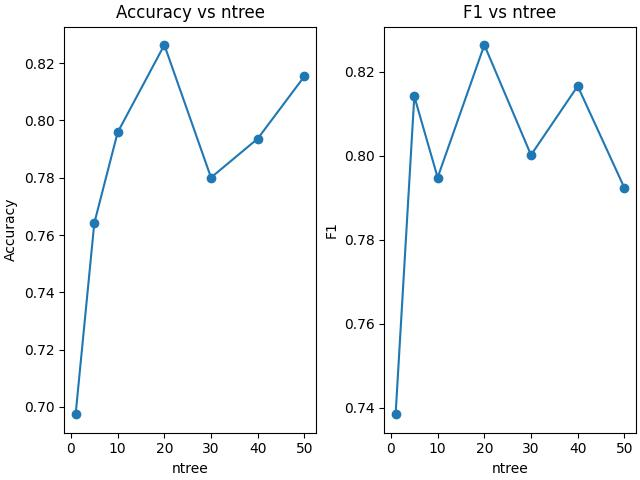
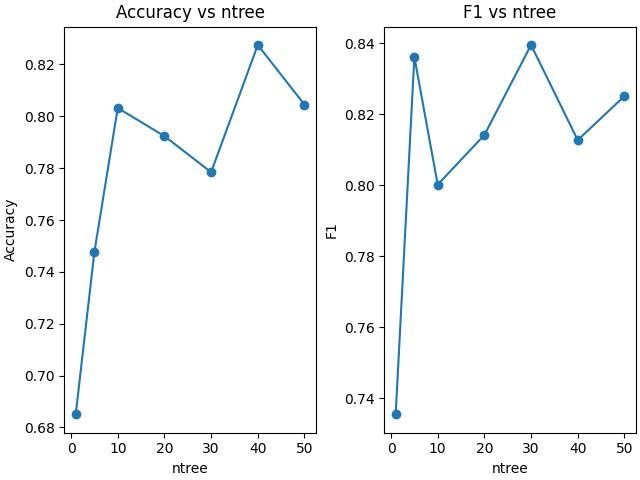
add report loan random forest, neural network

diff --git a/Final_Project.tex b/Final_Project.tex
@@ -278,6 +278,9 @@ Algorithms we are using:
 \end{itemize}
 
 \subsection{Digits Dataset}
+
+All attributes are numerical so no need for one hot encode.
+
 \subsection*{Random Forest}
 \begin{itemize}
 	\item \text{Split criterion: Information Gain}
@@ -346,7 +349,8 @@ the more instances are introduced to the network, the cost J decreases as the we
 small number (almost constant).
 
 \subsection{Titanic Dataset}
-We remove the name column from the dataset as we think that information does not really help to classify the result.
+We remove the name column from the dataset as we think that information does not really help to classify the result. We also one hot encode the categorical
+attributes.
 
 \subsection*{Random Forest}
 \begin{itemize}
@@ -358,7 +362,7 @@ We remove the name column from the dataset as we think that information does not
 
 \begin{figure}[H]
 	\includegraphics[width=\textwidth]{figures/forest_titanic.csv_ig.jpg}
-	\caption{Random forest on Digits dataset}
+	\caption{Random forest on Titanic dataset}
 	\label{fig:forest-titanic}
 \end{figure}
 
@@ -409,6 +413,72 @@ may leads to overfitting since there are only 7 features. But with the optimal $
 As a result we get an overall relatively equal score for different hyper parameters set.
 
 \subsection{Loan Dataset}
+
+We remove the LOAN\_ID column from the dataset as we think that information does not really help to classify the result. We also one hot encode the categorical
+attributes.
+
+\subsection*{Random Forest}
+\begin{itemize}
+	\item \text{Split criterion: Information Gain}
+	\item $min\_size\_split = 12$
+	\item $min\_gain = 0.01$
+	\item $max\_depth = 12$
+\end{itemize}
+
+\begin{figure}[H]
+	\includegraphics[width=\textwidth]{figures/forest_loan.csv_ig.jpg}
+	\caption{Random forest on Loan dataset}
+	\label{fig:forest-loan}
+\end{figure}
+
+While F1 score increases as ntree increases until it reaches a constant, accuracy score seems more unclear about its trends. The accuracy for
+ntree = 20 really took a dip then increases back up so we are not really sure why. This dataset is a complicated one with more categorical attributes
+than numerical attributes. This could be the factor contributing to the lower score when compared to the Titanic dataset as well as the inconsistancy
+in accuracy score as a function of ntree.
+
+\subsection*{Neural Network}
+\begin{enumerate}[label=(\alph*)]
+	\item \begin{itemize}
+		      \item $\lambda = 0.01$
+		      \item $\alpha = 6$
+	      \end{itemize}
+
+	      \begin{table}[H]
+		      \centering
+		      \begin{tabular}{|l|l|l|}
+			      \hline
+			      Architecture     & Accuracy Score & F1 Score \\ \hline
+			      {[}18 4 2{]}     & 0.740908       & 0.780337 \\ \hline
+			      {[}18 20 2{]}    & 0.740908       & 0.780337 \\ \hline
+			      {[}18 20 20 2{]} & 0.731523       & 0.682143 \\ \hline
+		      \end{tabular}
+	      \end{table}
+	\item \begin{itemize}
+		      \item $\lambda = 0.1$
+		      \item $\alpha = 0.1$
+	      \end{itemize}
+
+	      \begin{table}[H]
+		      \centering
+		      \begin{tabular}{|l|l|l|}
+			      \hline
+			      Architecture     & Accuracy Score & F1 Score \\ \hline
+			      {[}18 20 2{]}    & 0.740908       & 0.780337 \\ \hline
+			      {[}18 20 20 2{]} & 0.740908       & 0.780337 \\ \hline
+		      \end{tabular}
+	      \end{table}
+\end{enumerate}
+
+\begin{figure}[H]
+	\includegraphics[width=\textwidth]{figures/nn_loan.csv_cost.png}
+	\caption{Cost J against the number of instances introduced with $\lambda=0.01, \alpha=6$ and architecture [18, 20, 2]}
+	\label{fig:nn-loan}
+\end{figure}
+
+For this dataset, the accuracy and F1 score for 1 and 2 hidden layers seems to converge given small enough starting $\alpha$ values. It still has the
+trend that more layers means less performance, but it no longer has the property that more neurons can offset this. Rather, the scores seems to be
+capped. Probably because of the many categorical attributes that is one hot encode that is causing the converging of accuracy score and F1 score
+since all of its are 1 and 0 values.
 
 \subsection{Parkinsons Dataset}
 

diff --git a/nn_runner.py b/nn_runner.py
@@ -6,9 +6,9 @@ import numpy as np
 from nn import NeuralNetwork
 from utils import eval, load_data, normalize, split_folds, split_train_test
 
-
 num_epoch = 1000
 batch_size = 32
+
 
 def eval_one_fold(args):
     X, y, folds, k, classifier, ld, alpha = args
@@ -72,22 +72,6 @@ if __name__ == "__main__":
         for i in range(10):
             accuracy_t.append(results[0])
             f1_t.append(results[1])
-
-    # for k in range(10):
-    #     X_train, X_test, y_train, y_test = split_train_test(X, y, folds, k)
-    #     print(f"Fitting k = {k}")
-    #     classifier.fit(
-    #         X_train,
-    #         y_train,
-    #         alpha=alpha,
-    #         ld=ld,
-    #         batch_size=batch_size,
-    #         num_epoch=num_epoch,
-    #     )
-    #     y_pred = classifier.predict(X_test)
-    #     metrics = eval(y_test, y_pred)
-    #     accuracy_t.append(metrics["accuracy"])
-    #     f1_t.append(metrics["f1"])
 
     print(f"Neural Network architecture: {classifier.num_neurons}")
     print(f"Accuracy: {np.mean(accuracy_t):.6f}")

diff --git a/random_forest_runner.py b/random_forest_runner.py
@@ -65,6 +65,7 @@ if __name__ == "__main__":
     ntrees = [1, 5, 10, 20, 30, 40, 50]
     accuracy, f1 = [], []
     for ntree in ntrees:
+        accuracy_t, f1_t = [], []
         print(f"Fitting ntree = {ntree}")
         classifier = RandomForestClassifier(
             ntree=ntree,
@@ -74,7 +75,7 @@ if __name__ == "__main__":
             attr_type=attr_type,
             criterion=criterion,
         )
-        accuracy_t, f1_t = [], []
+
         with multiprocessing.Pool(processes=5) as pool:
             results = pool.map(
                 eval_one_fold,

diff --git a/dcs.py b/dcs.py
@@ -235,6 +235,7 @@ class RandomForestClassifier:
         self.trees = []
 
     def fit(self, X, y):
+        self.trees = []
         for i in range(self.ntree):
             tree = DecisionTreeClassifier(
                 min_size_split=self.min_size_split,
